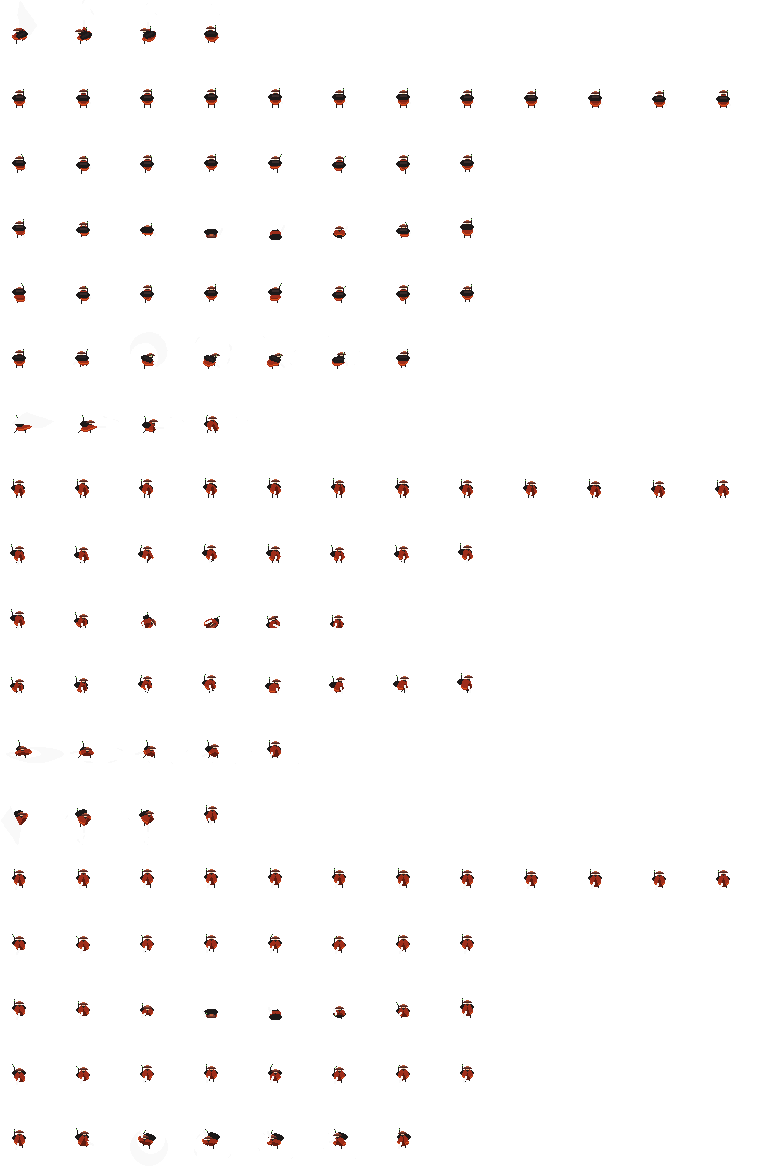
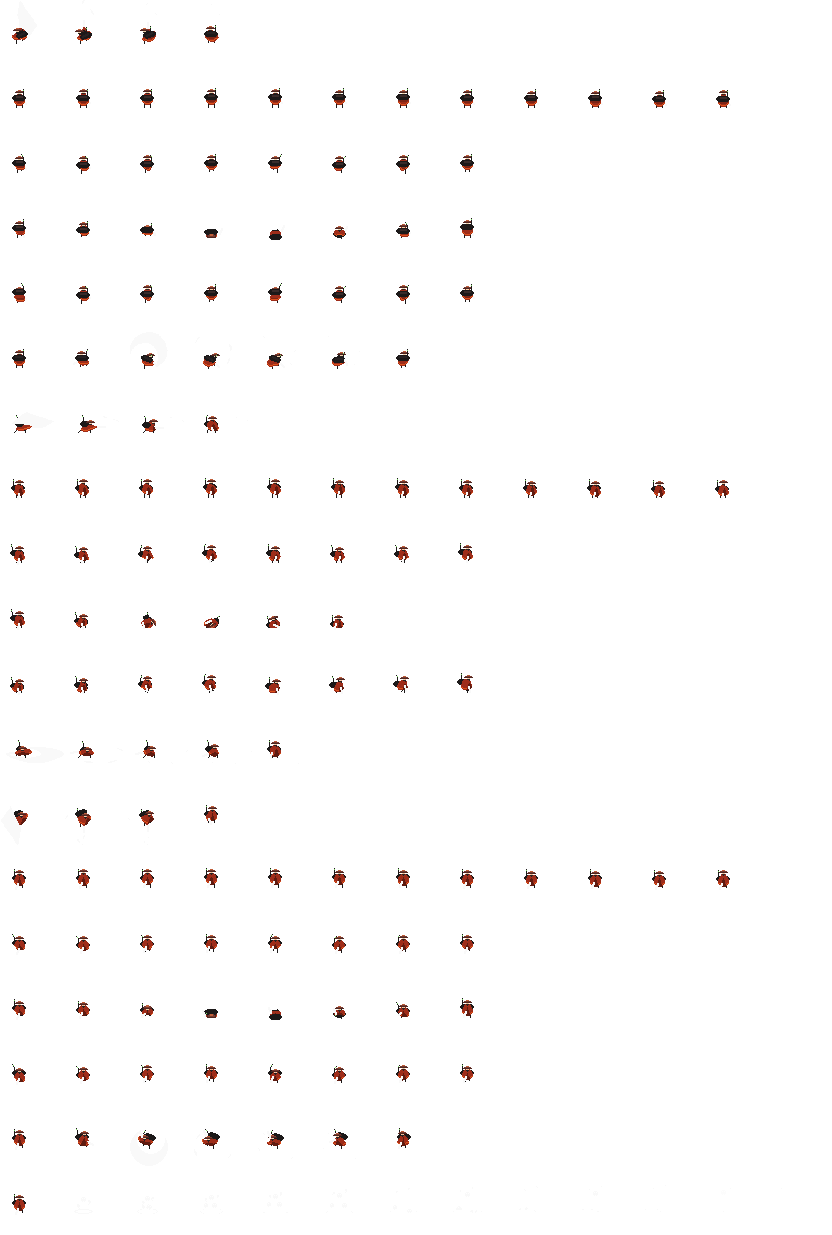
Created the final merged spritesheet

diff --git a/game/assets/merge_sheet.py b/game/assets/merge_sheet.py
@@ -8,27 +8,24 @@ output_dir = "./images/merged_hero"
 # Make sure the output directory exists
 os.makedirs(output_dir, exist_ok=True)
 
-# List of directions to merge
-directions = ["Up", "Right", "Down"]
+# List of specific images to merge
+images_to_merge = ["hero.png", "death.png"]
 
 # List to hold all images
 all_images = []
 
-# Loop through each direction folder and collect images
-for direction in directions:
-    direction_path = os.path.join(base_dir, direction)
+# Loop through each image and collect them
+for image_name in images_to_merge:
+    image_path = os.path.join(base_dir, image_name)
 
-    # Check if the direction folder exists
-    if not os.path.exists(direction_path):
-        print(f"Directory {direction_path} does not exist.")
+    # Check if the image file exists
+    if not os.path.exists(image_path):
+        print(f"File {image_path} does not exist.")
         continue
 
-    # Get a list of all PNG files in the direction folder
-    spritesheets = [os.path.join(direction_path, file) for file in os.listdir(direction_path) if file.endswith(".png")]
-
-    # Load all images in the folder
-    images = [Image.open(sheet) for sheet in spritesheets]
-    all_images.extend(images)
+    # Load the image
+    img = Image.open(image_path)
+    all_images.append(img)
 
 # Calculate total width and height based on individual image dimensions
 total_width = max(img.width for img in all_images)  # Use the maximum width
@@ -37,7 +34,7 @@ total_height = sum(img.height for img in all_images)  # Sum of all heights
 # Create a blank image with the calculated size
 merged_image = Image.new("RGBA", (total_width, total_height))
 
-# Paste each spritesheet into the new image
+# Paste each image into the new image
 y_offset = 0
 for img in all_images:
     merged_image.paste(img, (0, y_offset))
